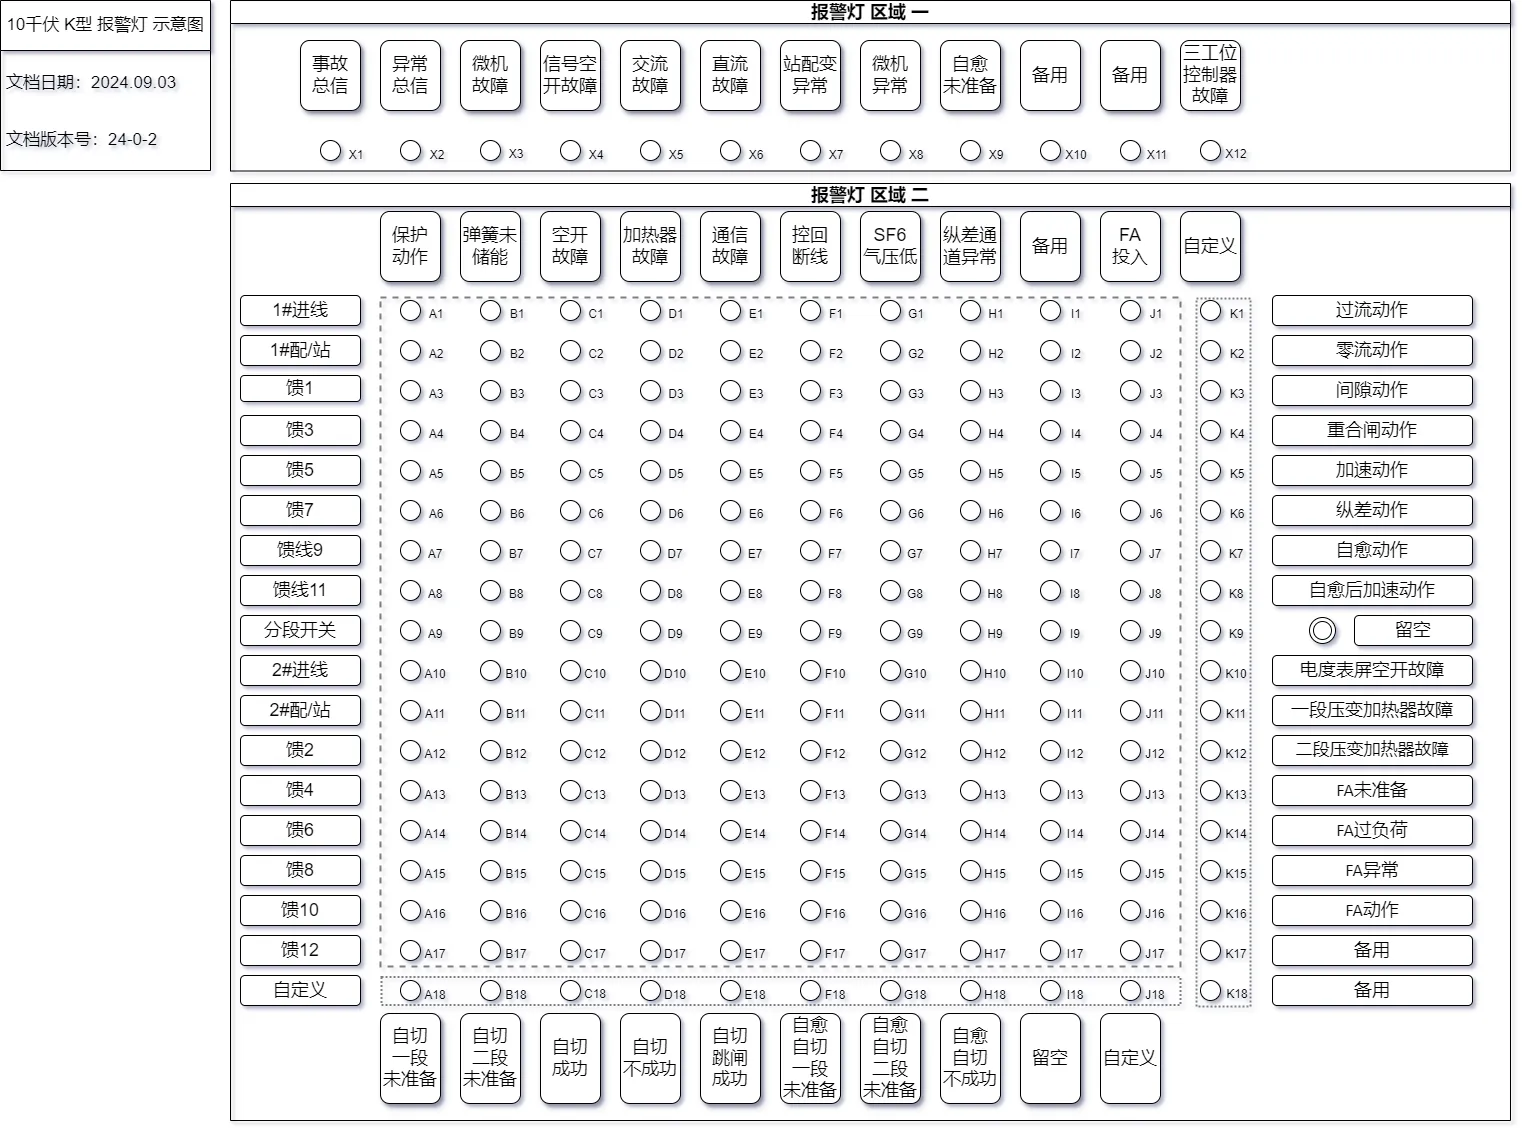
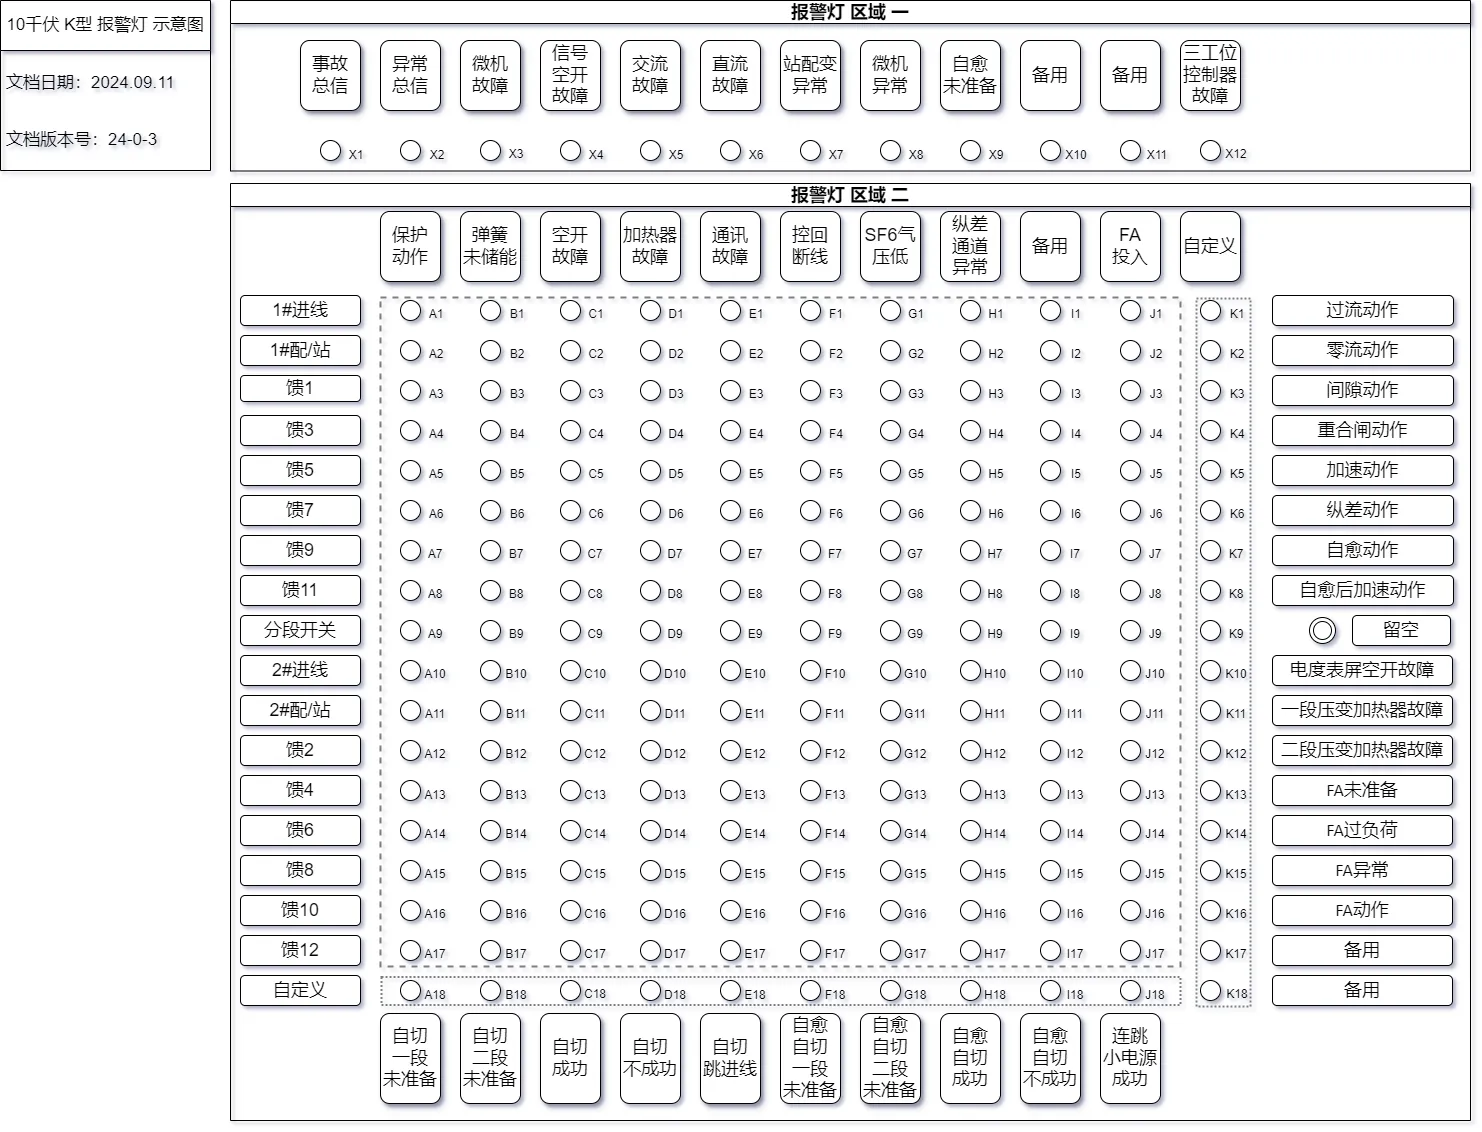
自愈报警灯 调整

Changed region(s): [[0.1552, 0.0, 0.9933, 0.9894], [0.0, 0.0, 0.1552, 0.0618], [0.0, 0.0618, 0.1242, 0.1237]]

diff --git a/docs/Page/10K-Alarmplate.md b/docs/Page/10K-Alarmplate.md
@@ -4,9 +4,9 @@
 
 ::: tip 文档版本
 
-> **`更新日期：2024.09.03`**
+> **`更新日期：2024.09.11`**
 
-> **`文档版本号：24-0-2`**
+> **`文档版本号：24-0-3`**
 
 :::
 
@@ -57,12 +57,16 @@
 >- ##### X1	事故总信（手动复归）
 >
 >> - 出线保护动作（合成）
->> - 自切动作（合成）
+>> - 自切成功（合成）
 >> - 自切不成功（合成）
->> - 自切跳闸成功（合成）
+>> - 自切跳进线（合成）
+>> - 自切连跳小电源仓位（合成）
 >> - 自愈动作（合成）
->> - 自愈自切动作（合成）
 >> - 自愈后加速动作（合成）
+>> - 自愈自切动作（合成）
+>> - 自愈自切不动作（合成）
+>> - 自愈自切跳闸成功（合成）
+>> - 自愈自切连跳小电源仓位（合成）
 >> - FA动作（合成）
 
 >- ##### X2	异常总信（自动复归）
@@ -185,14 +189,14 @@
 >>- 10千伏二段 自切未准备信号(软信号)
 
 > - ##### C18	自切成功
->>-  自切合 分段开关
+>>-  自切 合 分段开关
 
 > - ##### D18	自切不成功
->>-  自切后加速跳 分段开关
+>>-  自切 后加速 跳 分段开关
 
-> - ##### E18	自切跳闸成功
->>-  自切跳1#进线开关
->>-  自切跳2#进线开关
+> - ##### E18	自切跳进线
+> >-  自切跳1#进线开关
+> >-  自切跳2#进线开关
 
 > - ##### F18	自愈自切一段未准备
 >>-  A串自愈自切未准备
@@ -201,14 +205,14 @@
 >>-  B串自愈自切未准备
 
 > - ##### H18	自愈自切成功
->>-  自愈自切合 分段开关
+>>-  自愈自切 合 分段开关
 
 > - ##### I18	自愈自切不成功
->>-  自愈自切跳A串 环进 环出 开关
->>-  自愈自切跳B串 环进 环出 开关
+>>-  自愈自切 后加速 跳 分段开关
 
-> - ##### J18	留空
->>- FA功能专用灯,留空
+> - ##### J18	连跳小电源成功
+> >- 自切连跳小电源仓位
+> >- 自愈自切连跳小电源仓位
 ----
 > - ##### K1	过流动作
 >
@@ -241,17 +245,24 @@
 >
 > - ##### K7	自愈动作
 >
-> > - 自愈串 所属仓位 自愈动作信号
+> > - A串 自愈动作（硬开入）
+> > - B串 自愈动作（硬开入）
+> > - A串 自愈保护动作（软信号）
+> > - B串 自愈保护动作（软信号）
 >
 > - ##### K8	自愈后加速动作
 >
 > > - 自愈串 所属仓位 自愈后加速动作信号
 >
 > - ##### K9	留空
-> 
+>
 > > - 留空
-> 
+>
 > - ##### K10	电度表屏空开故障
+>
+> > - 电度表屏一 空开故障信号
+> >
+> > - 电度表屏二 空开故障信号
 >
 > - ##### K11	一段压变加热器故障
 >
@@ -262,16 +273,16 @@
 > > - FA功能逻辑判定未准备（软信号）
 >
 > - ##### K14	FA过负荷
-> 
+>
 > > - FA环路负荷越限（软信号）
 >
 > - ##### K15	FA异常
-> 
+>
 > > - FA装置异常（软信号）
 >
 > - ##### K16	FA动作
 >
->> - FA环路 所属仓位 FA动作信号
+> > - FA环路 所属仓位 FA动作信号
 >
 > - ##### K17	备用
 >
@@ -295,6 +306,24 @@
 
 ## 更新说明
 
-[2024.09.03]	报警灯 新增 加速动作(K5) 报警灯；调整 纵差动作(K6) 报警灯；位置调整 FA动作(K16) 报警灯位置
+[2024.09.11]	
 
-[2024.08.02]	报警灯 亮灯 细化
+新增 连跳小电源 (J18) 报警灯 
+
+新增 自愈自切不成功 (I18) 报警灯 
+
+
+
+[2024.09.03]	
+
+新增 加速动作 (K5) 报警灯 
+
+调整 纵差动作 (K6) 报警灯 
+
+调整 FA动作 (K16) 报警灯
+
+
+
+[2024.08.02]	
+
+报警灯 亮灯 细化
